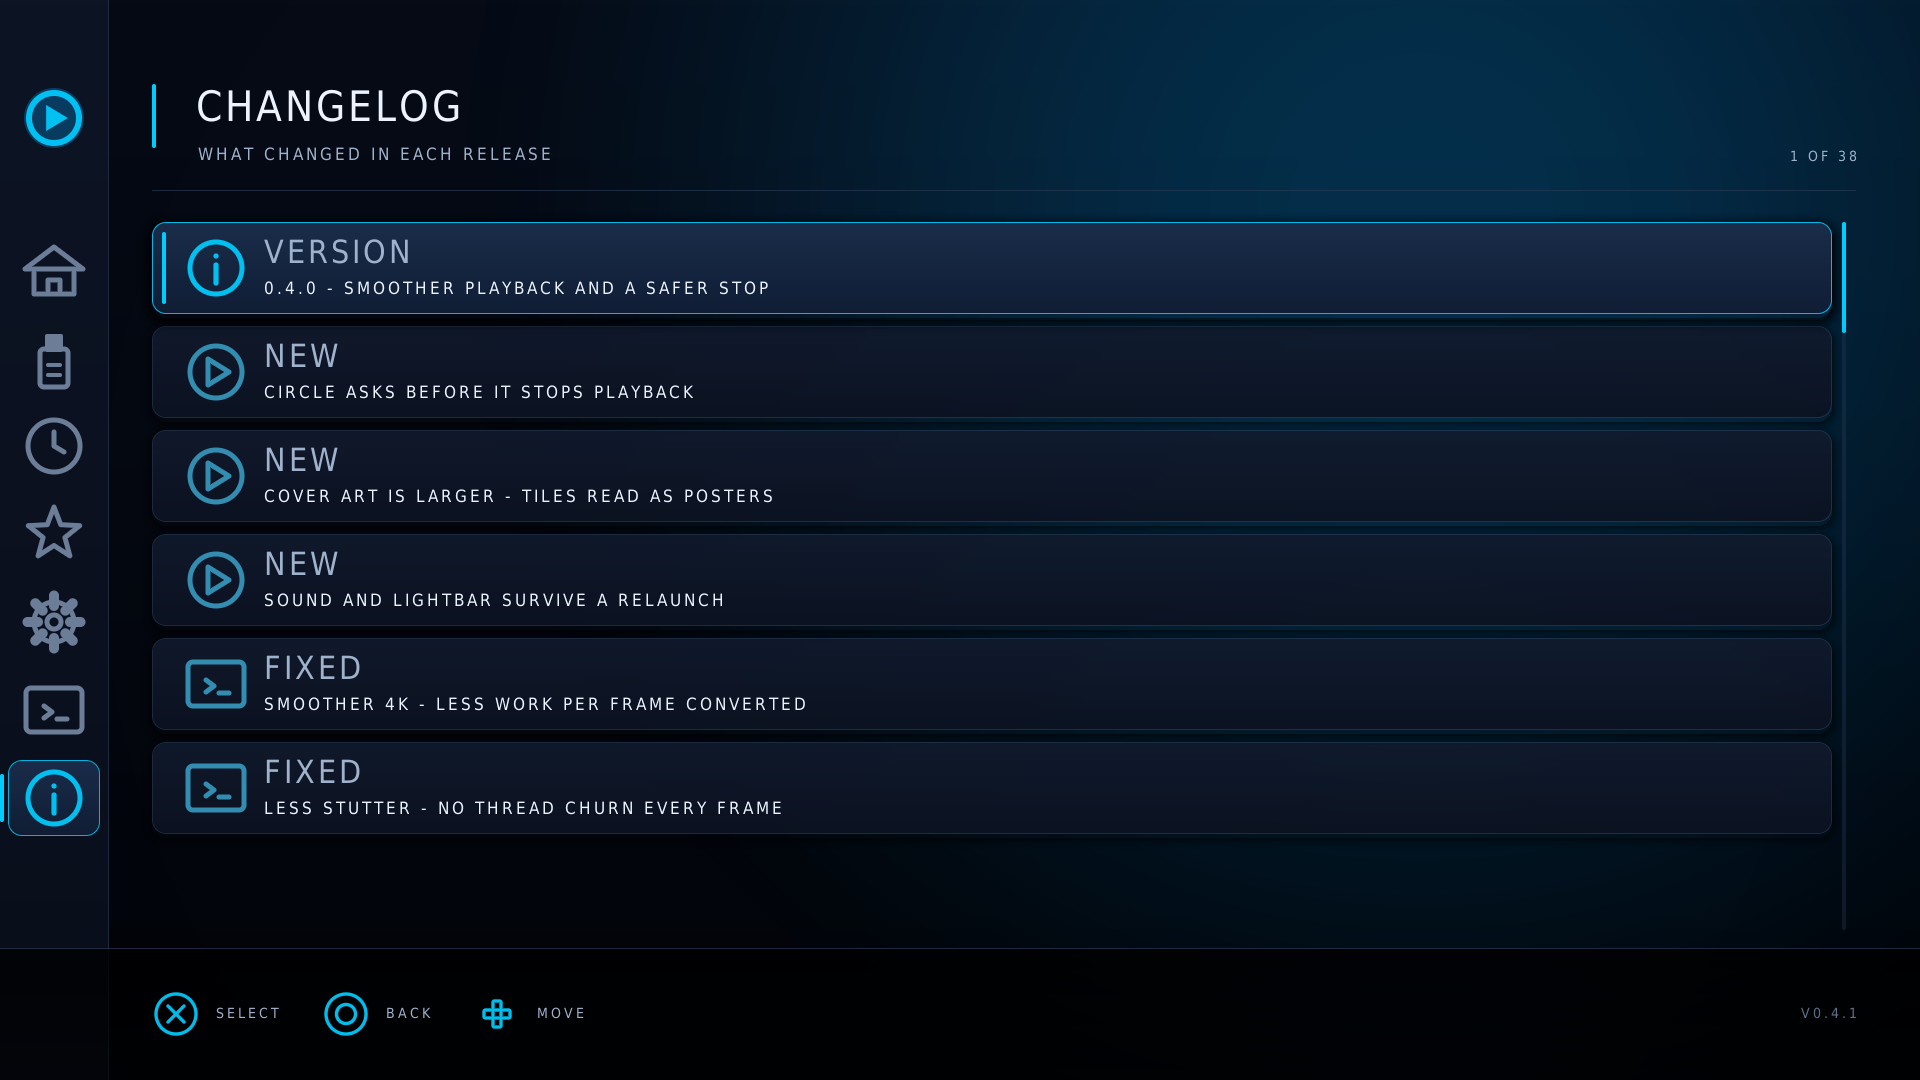
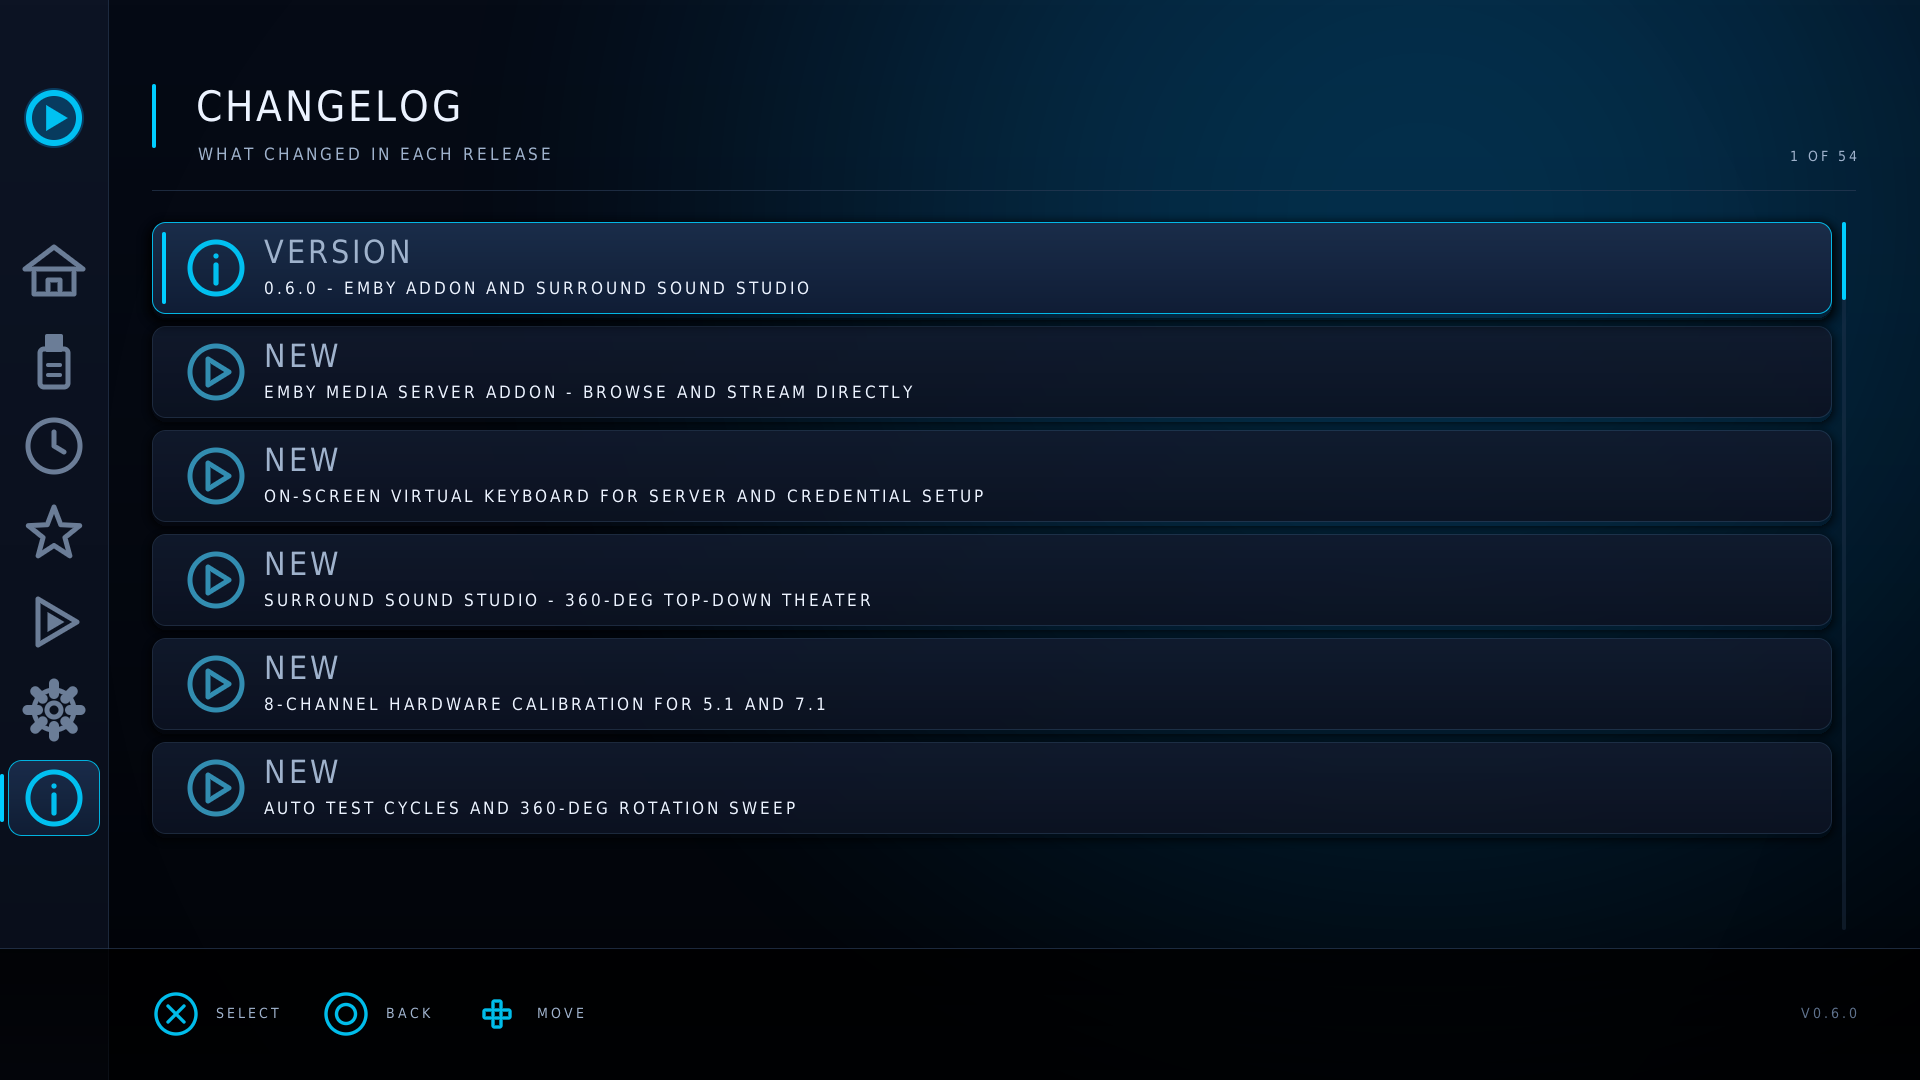
docs: update README with 0.6.0 features and InstallTile.elf installation guide

diff --git a/README.md b/README.md
@@ -2,224 +2,169 @@
 
 **A media player for jailbroken PS5 on firmware 12.70.**
 
-Plays your video off a USB stick, with surround sound, subtitles, resume, and
-an interface built for a controller and a television rather than a mouse.
+Plays your video off a USB drive or streams directly from your local **Emby** media server, featuring full 5.1 / 7.1 surround sound, subtitles, resume support, an acoustic calibration studio, and a television-first UI built specifically for the DualSense controller.
 
 ![EVO Player launch screen](docs/images/launch.png)
 
 ---
 
-## Install
+## Installation Guide
 
-From the latest **[release](https://github.com/sainsaji/EVO-PLAYER-PS5/releases/latest)**,
-download **`EVOPlayer-*-InstallTile.elf`**.
+The recommended way to install and use EVO Player is via the **Media Tile Launcher** (`InstallTile.elf`), which embeds the player and registers an official tile directly in your PS5's **Media** home screen.
 
-1. Copy it to a USB stick.
-2. Start it from your **payload manager** — the on-console one, typically at
-   `http://<your-ps5>:8084`.
-3. It reports **"EVO Player ready in Media"**.
-4. Open **EVO Player** from the console's own **Media** row.
+### Prerequisites
 
-That is the whole install. Nothing to extract, no FTP, no websrv.
-
-> **Leave the payload running.** It is resident by design — it is what starts
-> the player when you open the tile. **Re-run it after every reboot**, along
-> with the jailbreak.
-
-**You will need**
-
-- A PS5 on firmware **12.70**, jailbroken — the jailbreak must be re-run after
-  every reboot
-- `ps5-payload-elfldr` running, and a way to send it an ELF (a payload manager)
-- A USB stick, formatted exFAT or FAT32, with your media on it
-
-Put video in any folder on the stick. EVO Player reads `/mnt/usb0`.
-
-<details>
-<summary>Other files in the release, and which to avoid</summary>
-
-| File | Use it for |
-|---|---|
-| `EVOPlayer-*-InstallTile.elf` | **The normal install**, above |
-| `EVOPlayer-*-UninstallTile.elf` | Removes the tile completely |
-| `EVOPlayer-*-homebrew.zip` | The websrv route — extract to a USB stick as `/homebrew/EVOPlayer/` and launch from `http://<ps5>:8080` |
-| `EVOPlayer-*-player-only.elf` | The bare player. **Do not send this to a payload manager.** With `elfldr` alone it starts headless with no display plane, so nothing appears on screen — which is exactly what it looks like when it is "not working". It needs `hbldr`, which the tile installer and websrv provide |
-
-</details>
+- A PS5 running firmware **12.70**, jailbroken with `ps5-payload-elfldr` active.
+- Access to a **payload manager** (such as the on-console web payload manager, typically at `http://<your-ps5-ip>:8084` or `prospero-deploy`).
+- *(Optional for USB playback)* A USB stick formatted as **exFAT** or **FAT32** plugged into `/mnt/usb0`.
+- *(Optional for Emby)* An active Emby server reachable on your local area network (LAN).
 
 ---
 
-## What it does
+### Method 1: Media Tile Installation (`InstallTile.elf`) — Recommended
 
-### Browse your library
+1. Download **`EVOPlayer-*-InstallTile.elf`** from the latest **[GitHub Release](https://github.com/sainsaji/EVO-PLAYER-PS5/releases/latest)**.
+2. Copy `EVOPlayer-*-InstallTile.elf` to your USB stick or send it directly over your network using your payload manager (`http://<your-ps5-ip>:8084` or `tools/launch.sh`).
+3. Execute the payload. The installer registers the application into `/system_ex/app/` and `/user/app/` and displays:
+   > **"EVO Player ready in Media"**
+4. Press the **PS Button**, navigate to the **Media** tab on the PS5 home screen, and launch **EVO Player**.
 
-Folders first, then A–Z. The inspector shows codec, resolution, size and
-length before you commit to opening anything, and files you have started show
-how far in you got.
+> [!IMPORTANT]
+> **Leave the tile payload resident.** The launcher stays resident in the background to handle display planes and app launch handoffs. **Re-run the payload after every console reboot** alongside your jailbreak.
+
+---
+
+### Method 2: Web Server / USB Homebrew (`homebrew.zip`)
+
+If you prefer launching homebrew via `ps5-payload-websrv` rather than registering a Media tile:
+
+1. Download **`EVOPlayer-*-homebrew.zip`** from the release.
+2. Extract the contents directly to the root of your USB drive so the path is `/homebrew/EVOPlayer/eboot.elf`.
+3. Connect the USB drive to the console, open `http://<your-ps5-ip>:8080/index.html` in a browser, and click **EVOPlayer**.
+
+---
+
+### Release Package Matrix
+
+| File | Type | How to use |
+|---|---|---|
+| **`EVOPlayer-*-InstallTile.elf`** | **Media Tile Installer** | **Standard install.** Send to payload manager (port 8084) $\to$ opens from Media tab |
+| **`EVOPlayer-*-UninstallTile.elf`** | **Tile Uninstaller** | Removes the EVO Player tile from the Media home screen |
+| **`EVOPlayer-*-homebrew.zip`** | **Websrv Bundle** | Extract to `/homebrew/EVOPlayer/` on USB $\to$ launch from port 8080 |
+| **`EVOPlayer-*-player-only.elf`** | **Bare Payload** | For direct websrv / `/data/homebrew` usage. **Do not send directly to raw elfldr** (runs headless without `hbldr`) |
+
+---
+
+## Features
+
+### Browse USB & Stream from Emby Server
+
+Browse local video files from `/mnt/usb0` with real-time metadata inspector (codecs, resolution, file size, duration) or connect directly to your local **Emby Server**. Browse libraries, seasons, and episodes with server-cached cover posters and backdrops, and stream directly over LAN with synchronized watch progress.
 
 ![Browsing a folder](docs/images/browse.png)
+![Emby media library](docs/images/emby.png)
 
-Hold a direction to scroll, shoulder buttons to page, triggers to jump A–Z.
-TRIANGLE favourites a file; SQUARE opens full details.
+### On-Screen Virtual Keyboard
 
-### Pick up where you left off
+Built-in controller-friendly on-screen keyboard for setting up network endpoints, server ports, usernames, and passwords. Supports lowercase, uppercase, digits, and special symbols with instant controller shortcuts ($\square$ for Backspace, $\Delta$ for Done, $\bigcirc$ for Cancel).
 
-The launch screen leads with whatever you were last watching, and the shelf
-below it holds the rest of your recent files with real cover art pulled from
-the video itself.
+![On-screen virtual keyboard](docs/images/keyboard.png)
 
-![Recent files](docs/images/recent.png)
+### Surround Sound Studio (5.1 & 7.1 Calibration)
 
-### Subtitles, chosen by what is in them
+A bespoke 360° top-down acoustic sound stage interface for verifying multichannel audio setups.
+- Real-time hardware test over PS5 8-channel audio (`S16_8CH`).
+- Smooth 50ms attack/decay envelope fades to prevent popping or clicking.
+- Individual speaker tone tests for `FL`, `FC`, `FR`, `LFE`, `SL`, `SR`, `BL`, and `BR`.
+- Automated **5.1 & 7.1 Auto-Test Sequences** and a continuous **360° Perimeter Rotation Sweep**.
+- Dynamic 5.1 layout mode that hides inactive side speakers and seamlessly updates 2D spatial D-pad navigation.
 
-Tracks are ranked by how many cues they actually contain, not by what the
-metadata claims — so the real subtitle track is at the top and a signs-only
-track is labelled as one instead of being picked by accident.
+![Surround Sound Studio](docs/images/surround.png)
+
+### Smart Subtitle Selection & Sizing
+
+Subtitle tracks are ranked and ordered by real cue counts rather than claimed metadata. Includes a persistent default subtitle size configuration (`SMALL`, `MEDIUM`, `LARGE`) in Settings, and real-time synchronization offset adjustment ($L2$/$R2$) during playback.
 
 ![Subtitle track picker](docs/images/picker.png)
 
-Press DOWN during playback. Language names come from the track's language code,
-50 of them mapped. L2 and R3 nudge subtitle timing if a file is out of sync.
+### Text Document Reader
 
-### Read text files
-
-Open a `.txt`, `.log`, `.md`, `.nfo`, `.srt` or `.json` and it opens in a
-reader rather than doing nothing.
+Open `.txt`, `.log`, `.md`, `.nfo`, `.json`, and subtitle documents directly in the built-in reader with custom typography, punctuation atlas, and adjustable text sizes.
 
 ![Text reader](docs/images/reader.png)
 
-D-pad scrolls, shoulders page, triggers jump a tenth of the file, TRIANGLE
-changes text size and keeps your place. Curly quotes, em dashes and accented
-letters are folded to what the font can draw, so text from the web reads
-properly.
+### Structured Settings & Custom Themes
 
-### Know what you are playing
-
-![Media info](docs/images/mediainfo.png)
-
-### Make it yours
+Organized sub-menus for Playback & Video, Subtitles, Interface, System Hardware, and Developer Tools. Includes 4 built-in color themes plus support for external `.theme` files placed in `/mnt/usb0/evo_themes`.
 
 ![Settings](docs/images/settings.png)
-
-Four built-in themes, plus any `.theme` file you drop in `/mnt/usb0/evo_themes`
-— see [docs/theming.md](docs/theming.md). Navigation sounds and a lightbar
-tinted to the theme, both of which can be turned off.
 
 ---
 
 ## Controls
 
-| | Browsing | Playing |
-|---|---|---|
-| **CROSS** | open | pause / resume |
-| **CIRCLE** | back | stop, after confirming |
-| **TRIANGLE** | favourite | view mode: fit / fill / stretch |
-| **SQUARE** | file details | — |
-| **D-pad / stick** | move, hold to scroll | — |
-| **LEFT** | open the side rail | — |
-| **DOWN** | — | choose a subtitle track |
-| **L1 / R1** | page | skip a chapter, or ±60s |
-| **L2 / R2** | jump A–Z | subtitle timing |
-| **L3** | — | save a screenshot to USB |
-
-CIRCLE asks before it stops playback — it is the same button that means "back"
-everywhere else, and it used to throw away your place in the file on one press.
+| Button | In Menus & Browser | During Video Playback | In Keyboard Modal |
+|---|---|---|---|
+| **CROSS ($\times$)** | Select / Open | Pause / Resume | Type Character |
+| **CIRCLE ($\bigcirc$)** | Back / Return | Stop (with prompt) | Cancel / Close |
+| **TRIANGLE ($\Delta$)** | Toggle Favorite | Aspect Ratio (Fit / Fill / Stretch) | Submit / Done |
+| **SQUARE ($\square$)** | File Details / Inspector | — | Backspace |
+| **D-Pad / Stick** | Move focus, hold to scroll | — | Move cursor |
+| **LEFT** | Open side navigation rail | — | — |
+| **DOWN** | — | Subtitle track picker | — |
+| **L1 / R1** | Page scroll | Skip chapter / ±60s | Switch Shift / Symbols |
+| **L2 / R2** | Jump alphabetical (A–Z) | Subtitle sync nudge (±50ms) | — |
+| **L3** | Screenshot capture | Screenshot capture | — |
 
 ---
 
-## Performance
+## Building from Source
 
-Playback does less work per frame than it used to. Every frame is converted
-from the decoder's format and rearranged into the layout the console's display
-hardware wants, and both steps got faster:
-
-| per frame | before | after |
-|---|---|---|
-| 4K conversion | 10.3 ms | **8.8 ms** |
-| 1080p conversion | 3.0 ms | **2.1 ms** |
-| 1080p drawing | 2.9 ms | **2.2 ms** |
-
-The change that probably matters most is not in that table. The step that
-rearranges each frame used to create and destroy twelve threads **every frame**
-— 720 a second at 60fps — which is the pattern behind the stalls that show up
-as an occasional hitch rather than as a lower frame rate. It reuses a pool now.
-The player also stopped painting two million pixels black immediately before
-covering every one of them with video.
-
-> These are measurements from a development PC, taken with `./tools/bench.sh`,
-> which hashes the output and refuses to report a timing if the picture
-> changed. They compare the changes against each other; they are not a
-> prediction of frame rate on your console, and the improvements have not yet
-> been measured on hardware.
-
-## Good to know
-
-- **Resume** is offered when you reopen a file you did not finish.
-- **Screenshots** go to the USB stick. The websrv `/fs` endpoint is read-only,
-  so delete them from the console's own web terminal or by pulling the drive.
-- **4K** takes its fastest path on 8-bit SDR up to 30fps. Larger or 10-bit 4K
-  still plays, on a slower path.
-- **10-bit files play**, converted down to 8-bit — the console's display plane
-  here is 8-bit, so the extra precision cannot be carried through. Fine on most
-  material; a smooth gradient like a sky or a fade can show banding.
-- **HDR is not supported.** PQ and HLG content plays but is shown as SDR
-  without tone mapping, so it will look washed out or dark.
-- Media stays on your stick. Nothing is copied to the console, and nothing
-  leaves your network.
-
----
-
-## Building it yourself
-
-Everything builds in a pinned Docker container — no toolchain to install:
+Builds are fully containerized using the pinned Docker toolchain:
 
 ```bash
 git clone https://github.com/sainsaji/EVO-PLAYER-PS5
 cd EVO-PLAYER-PS5
 echo "PS5_HOST=192.168.0.10" > .env      # your console's IP
 
-docker compose build                     # one-time, ~10 min
+docker compose build                     # build container image
 docker compose run --rm ps5-dev ./scripts/build-evoplayer.sh
 ```
 
-The full setup — Windows host, the SDK, FFmpeg, deployment, and why each
-version is pinned where it is — is in **[docs/building.md](docs/building.md)**.
-
-The interface can be rendered on your PC without a console at all, which is how
-most of it was built:
-
+To build all release payloads (including Media tile and homebrew bundle):
 ```bash
-./tools/uiview.sh --all          # every screen, to output/uiview/
+docker compose run --rm ps5-dev ./scripts/build-media-tile.sh
+docker compose run --rm ps5-dev ./scripts/package-pkg.sh --format homebrew output/elf/EVOPlayer.elf
 ```
 
-Every screenshot on this page is one of those renders.
-
-### Documentation
-
-| | |
-|---|---|
-| [docs/building.md](docs/building.md) | full build and deploy guide |
-| [docs/architecture.md](docs/architecture.md) | how the code is laid out |
-| [docs/ui-handoff.md](docs/ui-handoff.md) | the UI layer, and working on it |
-| [docs/converter-perf.md](docs/converter-perf.md) | the video path, measured |
-| [docs/hardware-decode.md](docs/hardware-decode.md) | the plan for getting decode off the CPU |
-| [docs/hardware-decode-review.md](docs/hardware-decode-review.md) | a critical review of that plan |
-| [docs/theming.md](docs/theming.md) | writing a `.theme` file |
-| [docs/tooling.md](docs/tooling.md) | the scripts, and what each is for |
-| [CHANGELOG.md](CHANGELOG.md) | what changed, per release |
+To render all UI screens offline on PC:
+```bash
+./tools/uiview.sh --all                  # renders PNGs to output/uiview/
+```
 
 ---
 
-## Credits and licence
+## Documentation
 
-Forked from [ProsperoPlayer](https://github.com/KINGDKAK/ProsperoPlayer) by
-KINGDKAK, and licensed **GPL-3.0-or-later** — see [COPYRIGHT.md](COPYRIGHT.md).
+| Document | Purpose |
+|---|---|
+| [docs/building.md](docs/building.md) | Full build, environment, and packaging guide |
+| [docs/addons-emby-nuvio.md](docs/addons-emby-nuvio.md) | Technical architecture and specs for Emby & streaming add-ons |
+| [docs/architecture.md](docs/architecture.md) | Code architecture, video pipelines, and draw vtables |
+| [docs/ui-handoff.md](docs/ui-handoff.md) | UI system, design tokens, and layout guidelines |
+| [docs/converter-perf.md](docs/converter-perf.md) | 4K/1080p video converter benchmarks and metrics |
+| [docs/theming.md](docs/theming.md) | Theme format specifications and tokens |
+| [docs/tooling.md](docs/tooling.md) | Launcher safety cooldowns and CLI utilities |
+| [CHANGELOG.md](CHANGELOG.md) | Version history and release notes |
 
-- [ps5-payload-dev](https://github.com/ps5-payload-dev) (John Törnblom) — SDK,
-  elfldr, websrv, pacbrew-repo
+---
+
+## Credits & License
+
+Forked from [ProsperoPlayer](https://github.com/KINGDKAK/ProsperoPlayer) by KINGDKAK and licensed under **GPL-3.0-or-later** (see [COPYRIGHT.md](COPYRIGHT.md)).
+
+- [ps5-payload-dev](https://github.com/ps5-payload-dev) (John Törnblom) — SDK, elfldr, websrv
 - [KINGDKAK](https://github.com/KINGDKAK) — ProsperoPlayer
-- [zecoxao/sce_symbols](https://github.com/zecoxao/sce_symbols) — NID database
+- [zecoxao/sce_symbols](https://github.com/zecoxao/sce_symbols) — NID symbol database
 
-EVO Player is independent homebrew, **not affiliated with Sony or
-PlayStation**. Use at your own risk, with media you own. No Sony code, binaries
-or keys are included in or required by this repository.
+*EVO Player is independent homebrew software and is not affiliated with, endorsed by, or associated with Sony Interactive Entertainment. All PlayStation trademarks belong to their respective owners.*
